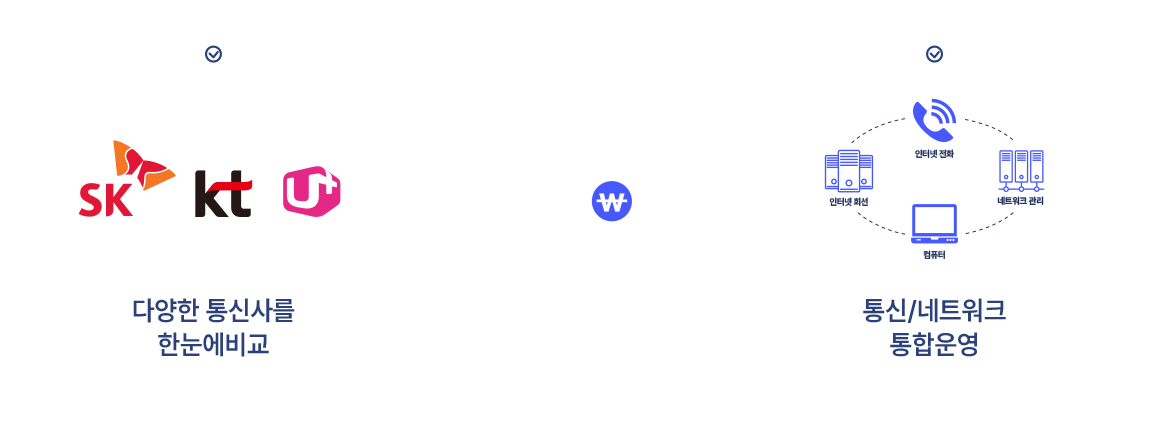
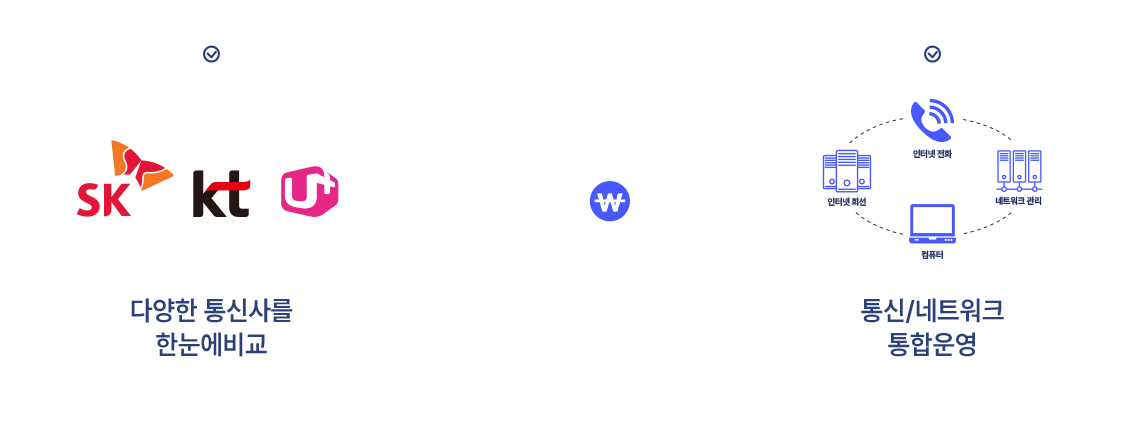
이미지 교체

diff --git a/js/mainLayout241111.js b/js/mainLayout241111.js
@@ -1,5 +1,5 @@
 const mainHTML = `
-<div class="mn-cont">
+    <div class="mn-cont">
         <nav class="pagination-vertical">
             <ul>
                 <li>
@@ -148,8 +148,8 @@ const mainHTML = `
                     </header>
                     <picture>
                         <source media="(max-width:767px)"
-                            srcset="https://cdn.quv.kr/dftb6o0ka/up/672b1b4cc4f3e_1920.png">
-                        <img src="https://cdn.quv.kr/dftb6o0ka/up/672b1b4cc717d_1920.png" alt="">
+                            srcset="https://cdn.quv.kr/dftb6o0ka/up/672b1b4cc4f3e_1920.png" alt="">
+                        <img src="https://cdn.quv.kr/dftb6o0ka%2Fup%2F6731a0a4deac2_1920.png" alt="">
                     </picture>
                     <p class="mo mn-txt">기업용 인터넷, 인터넷전화, 전국대표번호, 휴대폰 등<br>
                         고객사 환경에 가장 유리한 쪽으로 개통하여 드립니다.<br>
@@ -177,7 +177,7 @@ const mainHTML = `
                     <picture>
                         <source media="(max-width:767px)"
                             srcset="https://cdn.quv.kr/dftb6o0ka/up/672b1b4d15117_1920.png">
-                        <img src="https://cdn.quv.kr/dftb6o0ka/up/672b1b4d17be6_1920.png" alt="">
+                        <img src="https://cdn.quv.kr/dftb6o0ka%2Fup%2F6731a0bff3b05_1920.png" alt="">
                     </picture>
                     <p class="mo mn-txt"></p>
                 </div>

diff --git a/markup.html b/markup.html
@@ -167,8 +167,8 @@
                     </header>
                     <picture>
                         <source media="(max-width:767px)"
-                            srcset="https://cdn.quv.kr/dftb6o0ka/up/672b1b4cc4f3e_1920.png">
-                        <img src="https://cdn.quv.kr/dftb6o0ka/up/672b1b4cc717d_1920.png" alt="">
+                            srcset="https://cdn.quv.kr/dftb6o0ka/up/672b1b4cc4f3e_1920.png" alt="">
+                        <img src="https://cdn.quv.kr/dftb6o0ka%2Fup%2F6731a0a4deac2_1920.png" alt="">
                     </picture>
                     <p class="mo mn-txt">기업용 인터넷, 인터넷전화, 전국대표번호, 휴대폰 등<br>
                         고객사 환경에 가장 유리한 쪽으로 개통하여 드립니다.<br>
@@ -196,7 +196,7 @@
                     <picture>
                         <source media="(max-width:767px)"
                             srcset="https://cdn.quv.kr/dftb6o0ka/up/672b1b4d15117_1920.png">
-                        <img src="https://cdn.quv.kr/dftb6o0ka/up/672b1b4d17be6_1920.png" alt="">
+                        <img src="https://cdn.quv.kr/dftb6o0ka%2Fup%2F6731a0bff3b05_1920.png" alt="">
                     </picture>
                     <p class="mo mn-txt"></p>
                 </div>
